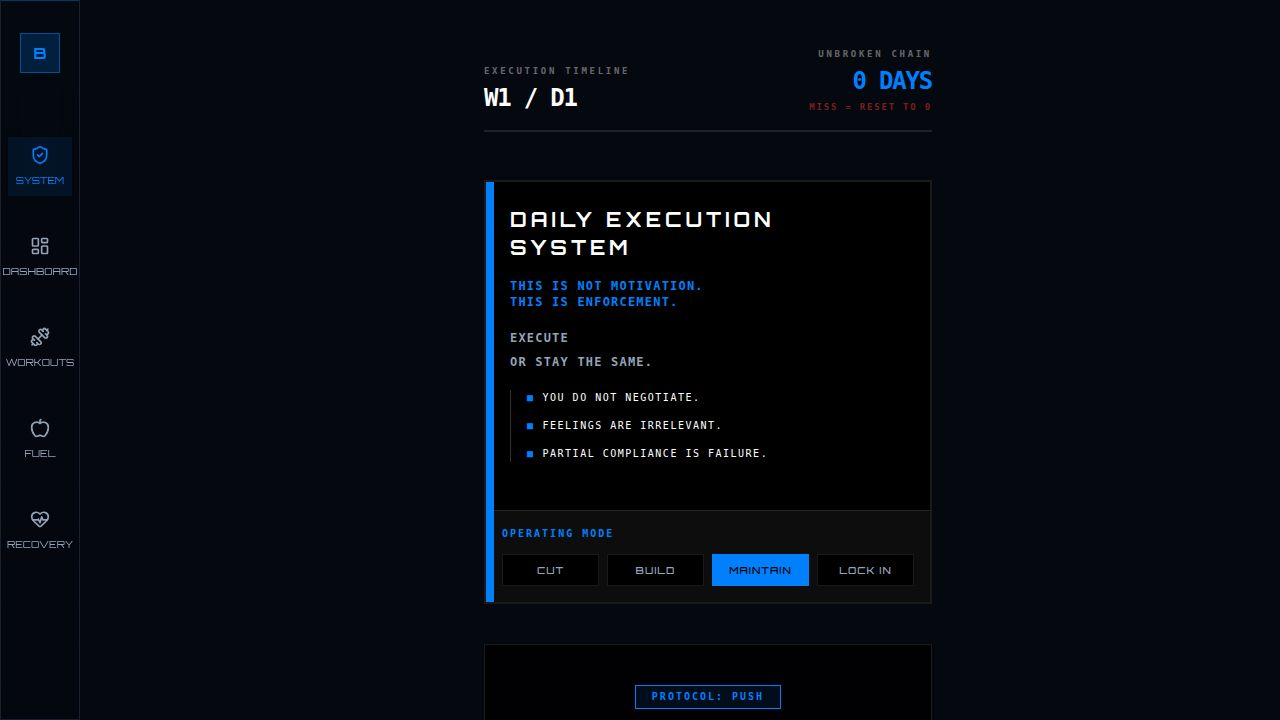
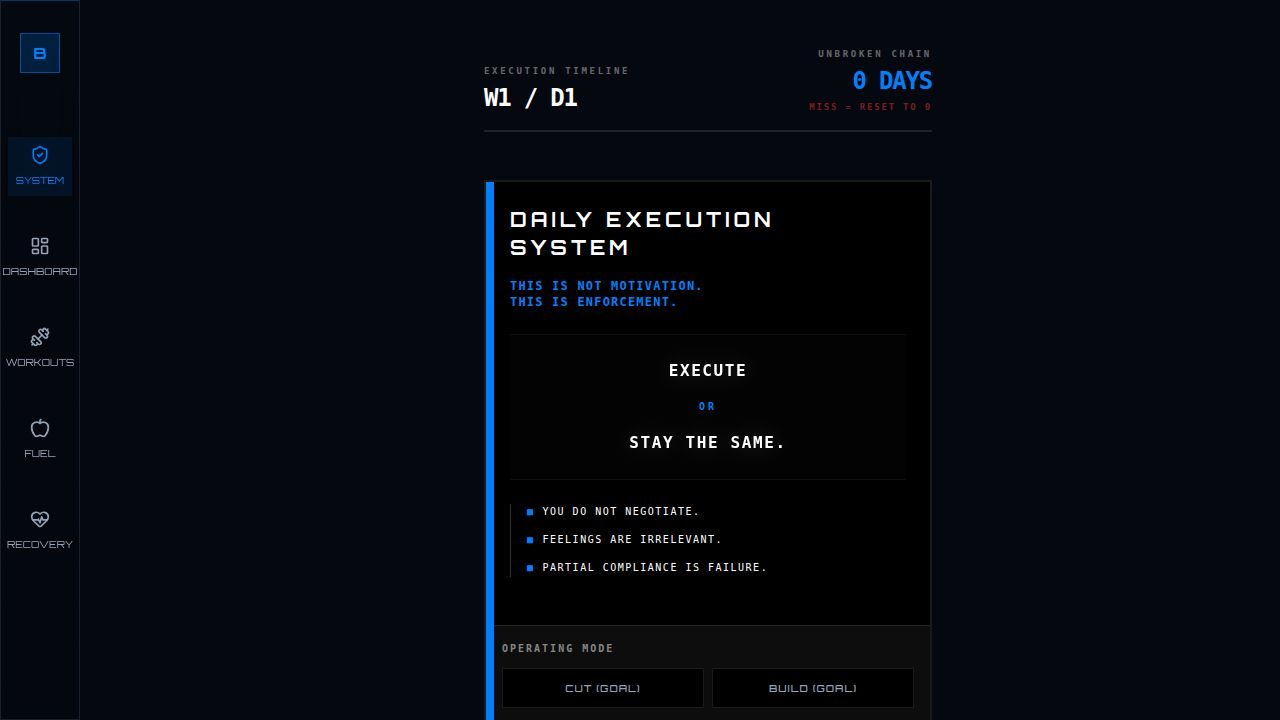
Adjust operating mode hierarchy and visual prominence for clarity
Update `client/src/pages/home.tsx` to visually differentiate "CUT" and "BUILD" goals from the primary "LOCK IN" identity, adjusting styling, size, and color for the latter.

Replit-Commit-Author: Agent
Replit-Commit-Session-Id: 25b280e0-415f-4aa2-aa81-2b472545ac74
Replit-Commit-Checkpoint-Type: full_checkpoint
Replit-Commit-Event-Id: 2ec7ab4f-fcee-4ea2-b87c-2a944150eff8
Replit-Commit-Screenshot-Url: https://storage.googleapis.com/screenshot-production-us-central1/e563b148-b593-4327-8bd6-2846d65d3909/25b280e0-415f-4aa2-aa81-2b472545ac74/WrvECGE
Replit-Helium-Checkpoint-Created: true

diff --git a/client/src/pages/home.tsx b/client/src/pages/home.tsx
@@ -215,24 +215,38 @@ export default function Home() {
         </div>
 
         <div className="bg-white/5 p-4 border-t border-white/10">
-          <div className="text-[10px] text-primary font-bold uppercase tracking-[0.2em] mb-3">Operating Mode</div>
-          <div className="grid grid-cols-3 gap-2">
-            {(["cut", "build", "lock-in"] as const).map((modeOption) => (
+          <div className="text-[10px] text-white/50 font-bold uppercase tracking-[0.2em] mb-3">Operating Mode</div>
+          <div className="grid grid-cols-2 gap-2 mb-3">
+            {(["cut", "build"] as const).map((modeOption) => (
               <Button
                 key={modeOption}
                 variant="outline"
                 size="sm"
                 onClick={() => setMode(modeOption)}
-                className={`font-display uppercase tracking-widest text-[10px] h-8 rounded-none border ${
+                className={`font-display uppercase tracking-widest text-[10px] h-10 rounded-none border ${
                   state.mode === modeOption 
-                    ? "bg-primary text-black hover:bg-primary/90 border-primary" 
+                    ? "bg-white text-black hover:bg-white/90 border-white" 
                     : "bg-black border-white/10 text-muted-foreground hover:bg-white/10 hover:text-white"
                 }`}
               >
-                {modeOption.replace("-", " ")}
+                {modeOption} (GOAL)
               </Button>
             ))}
           </div>
+          <Button
+            variant="outline"
+            onClick={() => setMode("lock-in")}
+            className={`w-full font-display font-black uppercase tracking-[0.3em] text-xs h-12 rounded-none border-2 transition-all relative overflow-hidden group ${
+              state.mode === "lock-in" 
+                ? "bg-primary text-black hover:bg-primary/90 border-primary shadow-[0_0_25px_hsl(var(--primary)/0.4)]" 
+                : "bg-primary/5 border-primary/50 text-primary hover:bg-primary/20 hover:border-primary shadow-[0_0_10px_hsl(var(--primary)/0.1)]"
+            }`}
+          >
+            {state.mode === "lock-in" && <div className="absolute inset-0 bg-white/20 animate-pulse mix-blend-overlay pointer-events-none"></div>}
+            <span className="relative z-10 flex items-center justify-center gap-2 w-full">
+              <span className="text-sm">🔥</span> LOCK IN (IDENTITY)
+            </span>
+          </Button>
         </div>
       </div>
 
